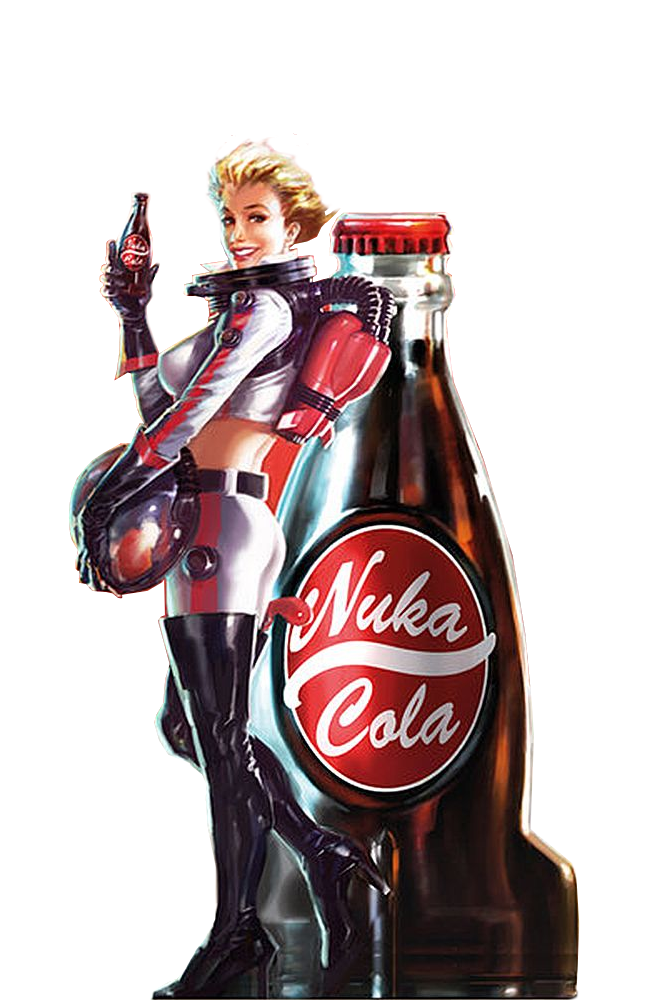
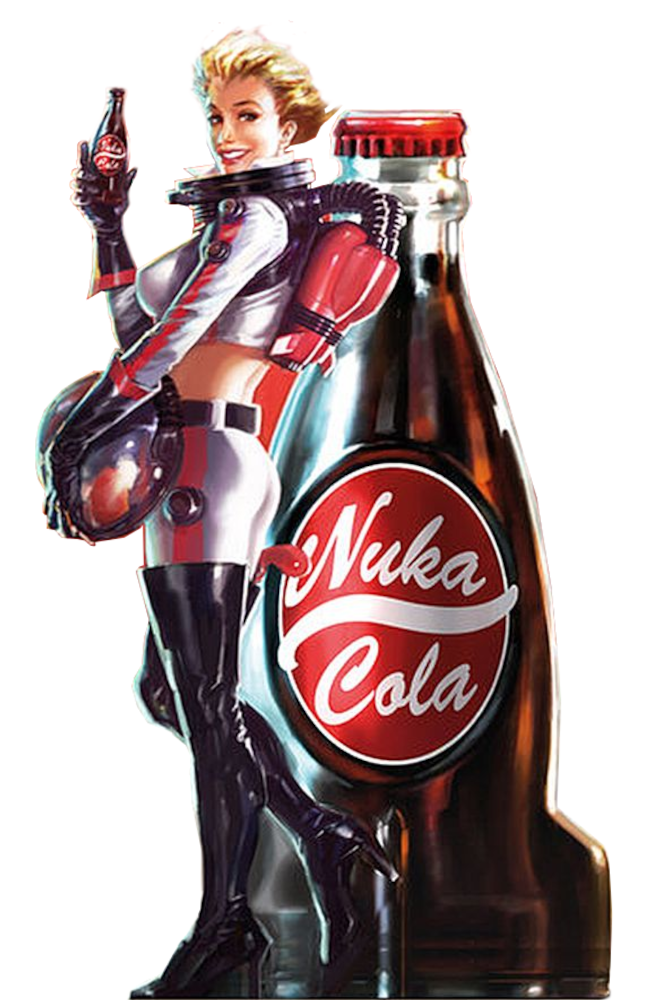
Added section #about with nuka girl.

diff --git a/index.html b/index.html
@@ -12,8 +12,8 @@
         <nav class="navbar">
             <ul>
                 <li><a href="#">Home</a></li>
-                <li><a href="#">About</a></li>
-                <li><a href="#">Products</a></li>
+                <li><a href="#">Shop</a></li>
+                <li><a href="#">About Us</a></li>
                 <li><a href="#">Clients</a></li>
             </ul>
         </nav>
@@ -26,7 +26,7 @@
         <img id="front" src="public/images/front_rock.png" alt="">
         <div id="additional-content">
             <div id="nuka-description">
-                <h1>Nuka Cola Quantum</h1>
+                <h1>Try Nuka Cola Quantum</h1>
                 <span>From far beyond</span>
             </div>
         </div>
@@ -56,9 +56,54 @@
                         </div>
                     </div>
                 </div>
+                <div class="card">
+                    <div class="img-bx">
+                        <img src="public/images/products/nuka-grape.png" alt="" height="300px">
+                    </div>
+                    <div class="content-box">
+                        <h2>Grape</h2>
+                        <div class="stats">
+                            <span class="title">Charisma:</span> <span>+5pts</span><br>   
+                            <span class="title">Strength:</span> <span>+10pts</span><br>   
+                        </div>
+                        <div class="actions">
+                            <a class="btn" href="#">Buy</a>
+                            <a href="#">Read more</a>
+                        </div>
+                    </div>
+                </div>
+                <div class="card">
+                    <div class="img-bx">
+                        <img src="public/images/products/nuka-wild.png" alt="" height="300px">
+                    </div>
+                    <div class="content-box">
+                        <h2>Wild</h2>
+                        <div class="stats">
+                            <span class="title">Low-light vision:</span> <span>+15%</span><br>   
+                            <span class="title">Speech:</span> <span>+5pts</span><br>   
+                        </div>
+                        <div class="actions">
+                            <a class="btn" href="#">Buy</a>
+                            <a href="#">Read more</a>
+                        </div>
+                    </div>
+                </div>
             </div>
         </div>
-
+    </section>
+    <section id="about" class="section">
+        
+        <div class="container flex-wrap">
+            <h1 class="font-overseer text-large text-center">About Us</h1>
+            <div class="content">
+                <div class="text-box">
+                    <p>Nuka-Cola entered the beverage market in 2044, with the invention of the soft drink by John-Caleb Bradberton after two years of experimentation. Though strictly unhealthy (containing 120% of the recommended daily allowance of sugar), it took the United States market by storm and within a year it could be purchased nationwide. Its popularity rapidly increased and within several years it was the most popular beverage across the globe.</p>
+                </div>
+                <div>
+                    <img src="public/images/nuka_girl.png" alt="nuka-girl" width="80%">
+                </div>
+            </div>
+        </div>
     </section>
 </body>
 <script>

diff --git a/public/style/style.css b/public/style/style.css
@@ -16,7 +16,6 @@ body{
 }
 
 .container{
-
     width: 80%;
 }
 a {
@@ -48,6 +47,10 @@ a {
     font-size: 2.4em;
 }
 
+.flex-wrap{
+    flex-wrap: wrap;
+}
+
 .section{
     display: flex;
     /* align-items: center; */
@@ -68,6 +71,28 @@ a {
 #shop{
     background-image: url('../images/bg-grey.jpg'); 
     background-size: cover;
+}
+
+#about{
+    display: flex;
+    position: relative;
+    background-image: url('../images/bg-red.png'); 
+    /* height: 600px; */
+    background-size: cover;
+    min-height: 600px;
+}
+#about .container .content{
+    display: flex;
+    flex-wrap: nowrap;
+    justify-content: space-evenly;
+    align-items: center;    
+}
+
+
+.text-box{
+    font-weight: 500;
+    font-size: 1.4em;
+    width: 30%;
 }
 #main-header:before {
     content: '';
@@ -165,7 +190,7 @@ a {
     text-align: center;
     z-index: 10;
 }
-@media only screen and (max-width: 600px) {
+@media only screen and (max-width: 754px) {
     .navbar{
         width: 100%;
         text-align: center;
@@ -201,11 +226,22 @@ a {
         font-size: 1rem;
     }
 
+    #about .container .content{
+        flex-wrap: wrap;
+    }
+    
+    #about .container .content .text-box{
+        width: 100%;
+        font-size: 1em;
+    }
     .cards-bx .card {
         margin-right: 0px !important;
         margin-left: 0px !important ;
     }
 
+    .cards-bx{
+        flex-wrap: wrap;
+    }
 }
 .navbar ul{
     display: flex;
@@ -237,9 +273,12 @@ a {
 *   CARD
 *
 */
+
 .cards-bx{
     position: relative;
     display: flex;
+    justify-content: center;
+    min-height: 600px ;
 }
 .cards-bx .card{
     margin: 10px 30px;
@@ -261,6 +300,19 @@ a {
     clip-path: circle(150px at 80% 20%);
     transition: 0.5s ease-in-out;
 }
+
+/**
+*   HACK TO CHANGE BG-COLOR
+*   FIND A SOLUTION IN PROD
+**/
+.cards-bx .card:nth-child(2):before{
+    background-color: #8b2b66;
+}
+
+.cards-bx .card:nth-child(3):before{
+    background-color: #b45928;
+}
+
 
 .cards-bx .card:hover:before{
     clip-path: circle(300px at 80% -20%);
